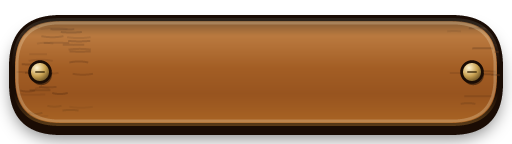
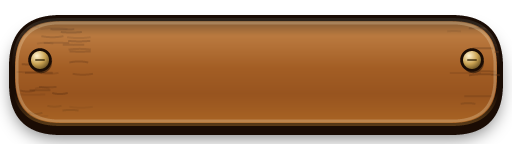
🎨 fix: pressed wood button keeps its rivet whole at 64 px; the Radio button is a flat pill instead of squashed wood
Found by the stud-roundness probe: at the 64 px minimum the pressed stud (centre 36) straddled the 36 px stretch seam and measured 1.63-1.80 wide-to-high. The stud centre is now fixed at 30 for both states, wholly inside the top margin: all 24 measurements 0.92-1.04, text centring within 1 px. The Radio button was forced to 48 px (under the art's 62 px minimum) and now wears the flat SkipPill style.

Claude-Session: https://claude.ai/code/session_01K6nrEBpN4FLdJ6qPP67z4p

Changed region(s): [[0.875, 0.3333, 0.9688, 0.6111], [0.0312, 0.3333, 0.125, 0.6111]]

diff --git a/godot/themes/flash/art/src/gen_ui.py b/godot/themes/flash/art/src/gen_ui.py
@@ -100,7 +100,10 @@ def button(pressed):
     # bevel line just inside the face
     s.add(f'<path d="{rrect_d(fx + 2.5, fy + 2.5, fw - 5, fh - 5, R - 2.5)}" fill="none" stroke="#fff0cc" stroke-opacity="{0.25 if pressed else 0.55}" stroke-width="1.4"/>')
     # brass studs on each end (inside the 36 px 9-slice margin), not in the text area
-    cy = fy + fh / 2
+    # The stud must lie ENTIRELY inside the 36 px top margin or it is cut by the stretch seam (the pressed face is 5 px lower,
+    # so its middle, 36, would put the 5.4 px stud across the seam: found by the stud-roundness probe at 64 px). 30 is fixed
+    # for both states, 1 px above the face middle on the normal button and 6 px above it on the pressed one.
+    cy = 30
     for x in (20, W - 20):
         s.add(circle(x + 0.6, cy + 1.2, 5.4, "#000", 'fill-opacity="0.45"'))
         s.add(circle(x, cy, 5.2, s.rad([(0, "#fff3d0"), (0.5, "#c9a252"), (1, "#4a3512")], 0.35, 0.3, 0.8), 'stroke="#1a0c04" stroke-width="1.4"'))
